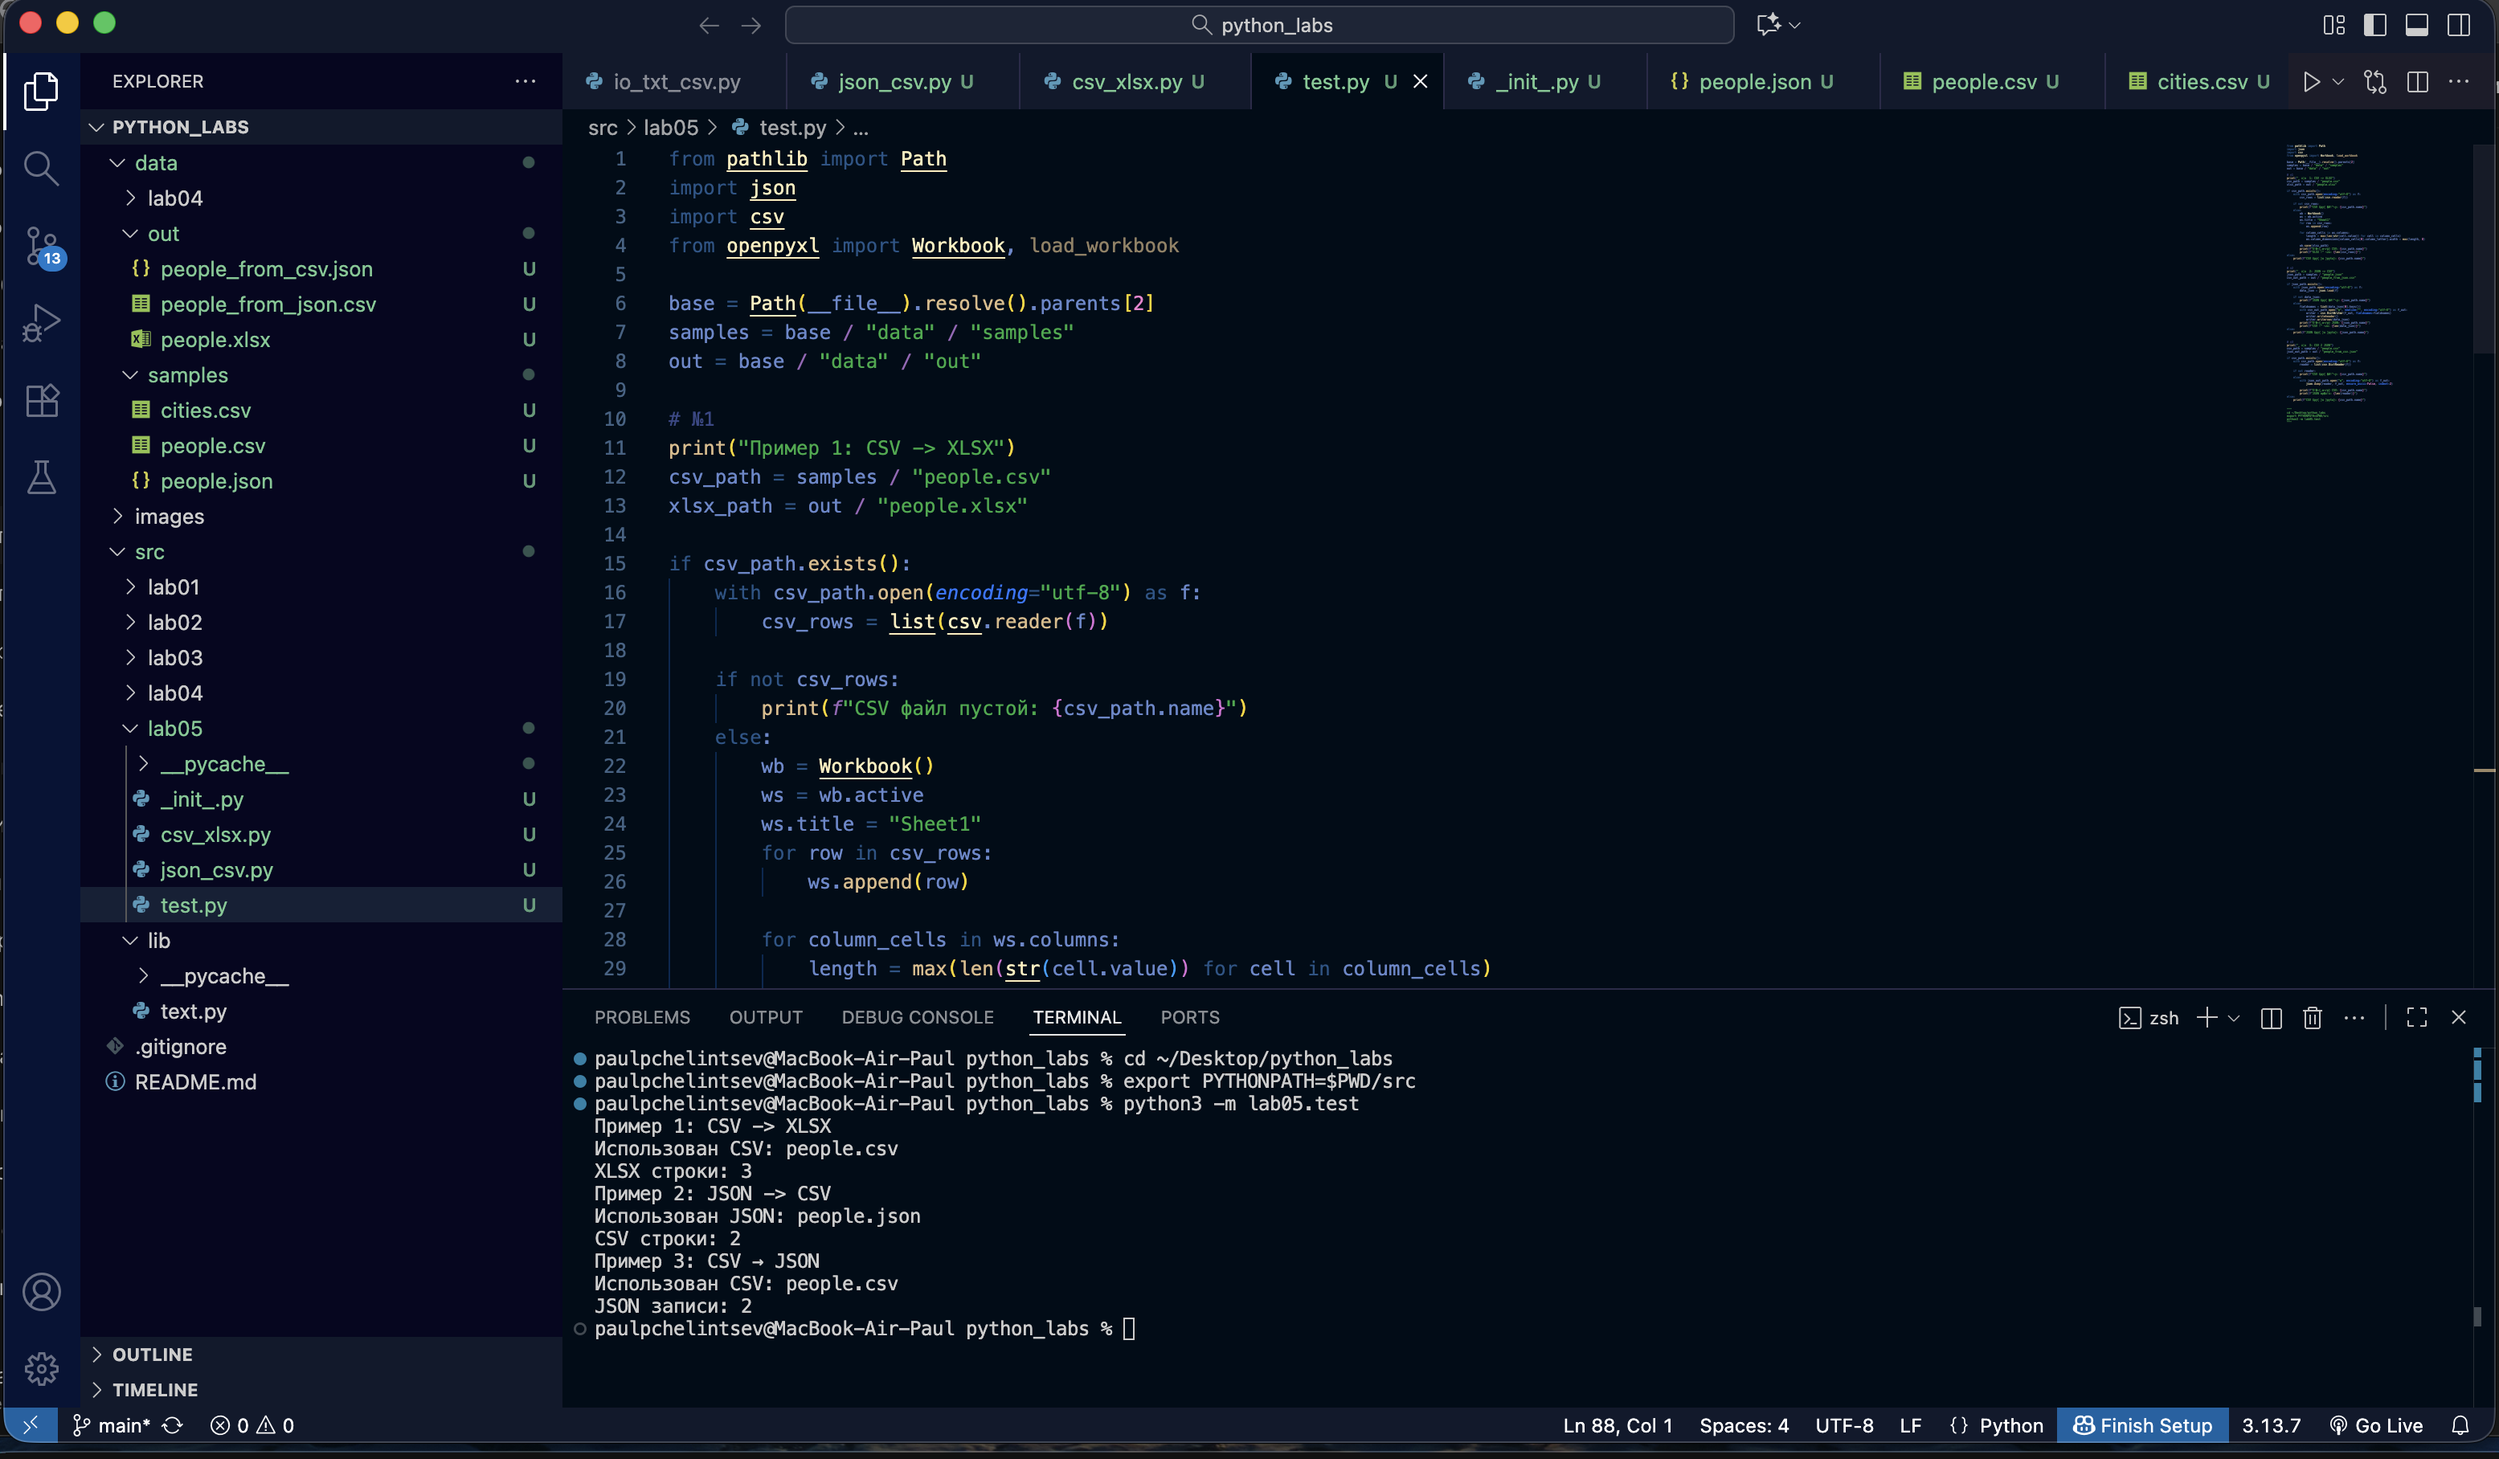
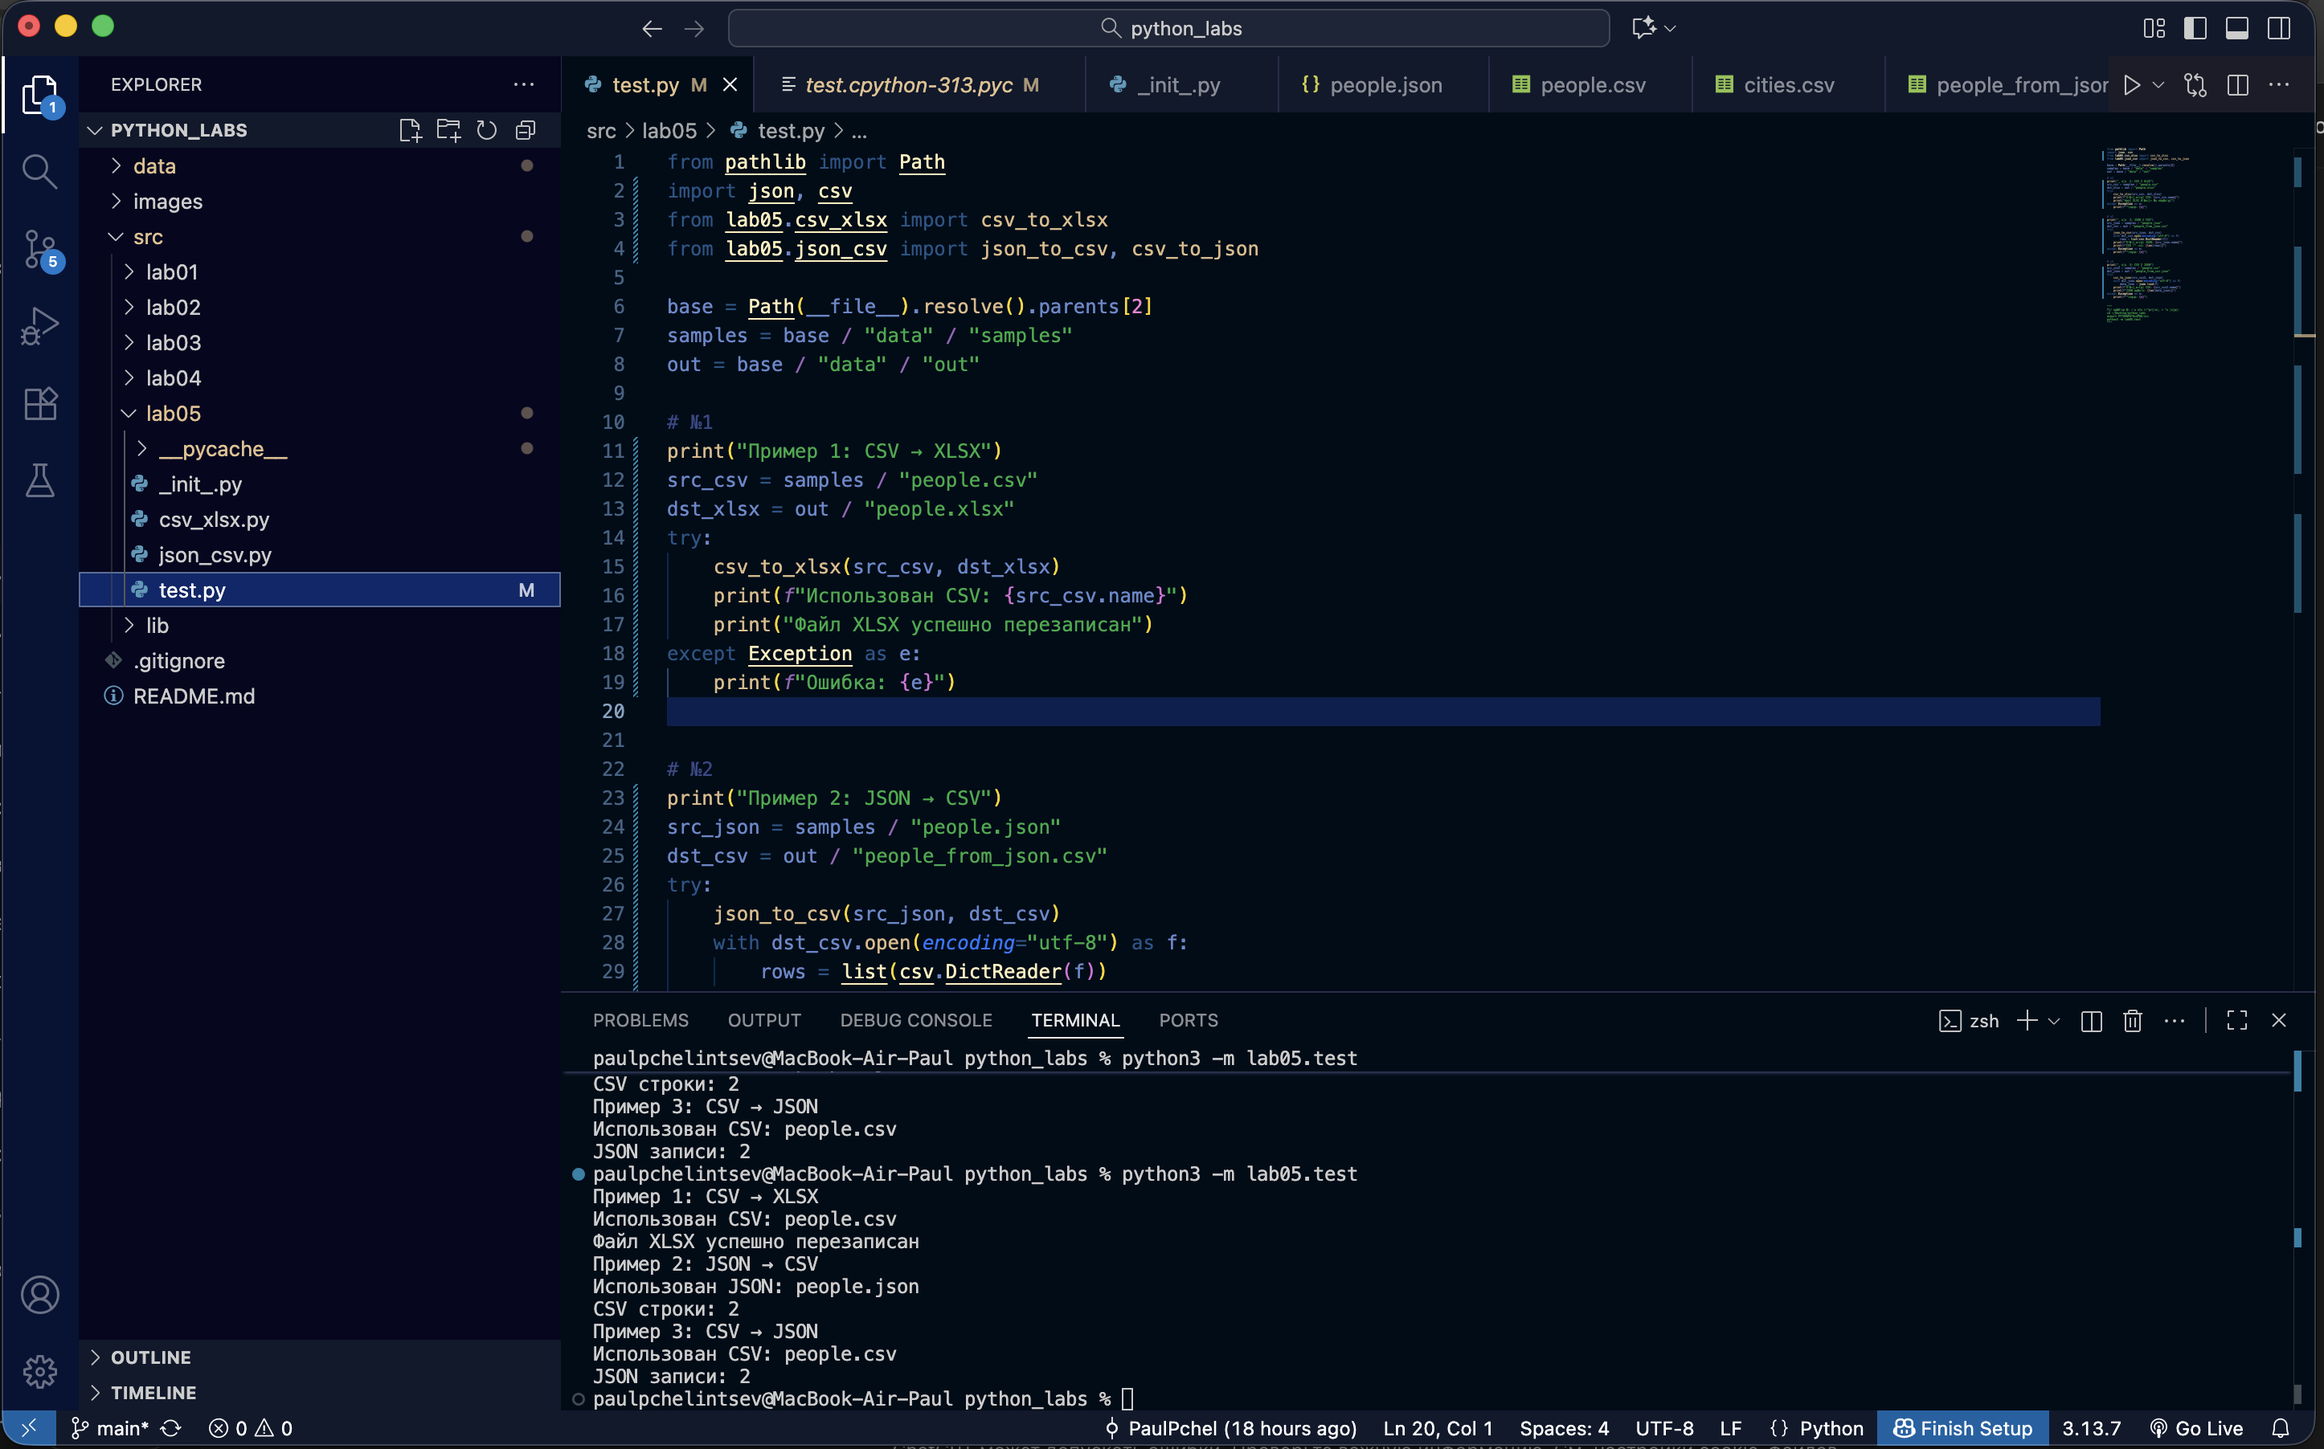
Update

Changed region(s): [[0.0, 0.0, 1.0, 1.0], [0.9025, 0.0931, 0.9647, 0.2794], [0.4979, 0.8071, 0.5602, 0.8381]]

diff --git a/src/lab05/test.py b/src/lab05/test.py
@@ -1,83 +1,50 @@
 from pathlib import Path
-import json
-import csv
-from openpyxl import Workbook, load_workbook
+import json, csv
+from lab05.csv_xlsx import csv_to_xlsx
+from lab05.json_csv import json_to_csv, csv_to_json
 
 base = Path(__file__).resolve().parents[2]
 samples = base / "data" / "samples"
 out = base / "data" / "out"
 
 # №1
-print("Пример 1: CSV -> XLSX")
-csv_path = samples / "people.csv"
-xlsx_path = out / "people.xlsx"
-
-if csv_path.exists():
-    with csv_path.open(encoding="utf-8") as f:
-        csv_rows = list(csv.reader(f))
-
-    if not csv_rows:
-        print(f"CSV файл пустой: {csv_path.name}")
-    else:
-        wb = Workbook()
-        ws = wb.active
-        ws.title = "Sheet1"
-        for row in csv_rows:
-            ws.append(row)
-
-        for column_cells in ws.columns:
-            length = max(len(str(cell.value)) for cell in column_cells)
-            ws.column_dimensions[column_cells[0].column_letter].width = max(length, 8)
-
-        wb.save(xlsx_path)
-        print(f"Использован CSV: {csv_path.name}")
-        print(f"XLSX строки: {len(csv_rows)}")
-else:
-    print(f"CSV файл не найден: {csv_path.name}")
+print("Пример 1: CSV → XLSX")
+src_csv = samples / "people.csv"
+dst_xlsx = out / "people.xlsx"
+try:
+    csv_to_xlsx(src_csv, dst_xlsx)
+    print(f"Использован CSV: {src_csv.name}")
+    print("Файл XLSX успешно перезаписан")
+except Exception as e:
+    print(f"Ошибка: {e}")
 
 
 # №2
-print("Пример 2: JSON -> CSV")
-json_path = samples / "people.json"
-csv_out_path = out / "people_from_json.csv"
-
-if json_path.exists():
-    with json_path.open(encoding="utf-8") as f:
-        data_json = json.load(f)
-
-    if not data_json:
-        print(f"JSON файл пустой: {json_path.name}")
-    else:
-        fieldnames = list(data_json[0].keys())
-        with csv_out_path.open("w", newline="", encoding="utf-8") as f_out:
-            writer = csv.DictWriter(f_out, fieldnames=fieldnames)
-            writer.writeheader()
-            writer.writerows(data_json)
-        print(f"Использован JSON: {json_path.name}")
-        print(f"CSV строки: {len(data_json)}")
-else:
-    print(f"JSON файл не найден: {json_path.name}")
+print("Пример 2: JSON → CSV")
+src_json = samples / "people.json"
+dst_csv = out / "people_from_json.csv"
+try:
+    json_to_csv(src_json, dst_csv)
+    with dst_csv.open(encoding="utf-8") as f:
+        rows = list(csv.DictReader(f))
+    print(f"Использован JSON: {src_json.name}")
+    print(f"CSV строки: {len(rows)}")
+except Exception as e:
+    print(f"Ошибка: {e}")
 
 
 # №3
 print("Пример 3: CSV → JSON")
-csv_path = samples / "people.csv"
-json_out_path = out / "people_from_csv.json"
-
-if csv_path.exists():
-    with csv_path.open(encoding="utf-8") as f:
-        reader = list(csv.DictReader(f))
-
-    if not reader:
-        print(f"CSV файл пустой: {csv_path.name}")
-    else:
-        with json_out_path.open("w", encoding="utf-8") as f_out:
-            json.dump(reader, f_out, ensure_ascii=False, indent=2)
-
-        print(f"Использован CSV: {csv_path.name}")
-        print(f"JSON записи: {len(reader)}")
-else:
-    print(f"CSV файл не найден: {csv_path.name}")
+src_csv2 = samples / "people.csv"
+dst_json = out / "people_from_csv.json"
+try:
+    csv_to_json(src_csv2, dst_json)
+    with dst_json.open(encoding="utf-8") as f:
+        data_json = json.load(f)
+    print(f"Использован CSV: {src_csv2.name}")
+    print(f"JSON записи: {len(data_json)}")
+except Exception as e:
+    print(f"Ошибка: {e}")
 
 
 """

diff --git a/README.md b/README.md
@@ -580,85 +580,52 @@ def csv_to_xlsx(csv_path: str, xlsx_path: str) -> None:
 
 ```
 from pathlib import Path
-import json
-import csv
-from openpyxl import Workbook, load_workbook
+import json, csv
+from lab05.csv_xlsx import csv_to_xlsx
+from lab05.json_csv import json_to_csv, csv_to_json
 
 base = Path(__file__).resolve().parents[2]
 samples = base / "data" / "samples"
 out = base / "data" / "out"
 
 # №1
-print("Пример 1: CSV -> XLSX")
-csv_path = samples / "people.csv"
-xlsx_path = out / "people.xlsx"
-
-if csv_path.exists():
-    with csv_path.open(encoding="utf-8") as f:
-        csv_rows = list(csv.reader(f))
-
-    if not csv_rows:
-        print(f"CSV файл пустой: {csv_path.name}")
-    else:
-        wb = Workbook()
-        ws = wb.active
-        ws.title = "Sheet1"
-        for row in csv_rows:
-            ws.append(row)
-
-        for column_cells in ws.columns:
-            length = max(len(str(cell.value)) for cell in column_cells)
-            ws.column_dimensions[column_cells[0].column_letter].width = max(length, 8)
-
-        wb.save(xlsx_path)
-        print(f"Использован CSV: {csv_path.name}")
-        print(f"XLSX строки: {len(csv_rows)}")
-else:
-    print(f"CSV файл не найден: {csv_path.name}")
+print("Пример 1: CSV → XLSX")
+src_csv = samples / "people.csv"
+dst_xlsx = out / "people.xlsx"
+try:
+    csv_to_xlsx(src_csv, dst_xlsx)
+    print(f"Использован CSV: {src_csv.name}")
+    print("Файл XLSX успешно перезаписан")
+except Exception as e:
+    print(f"Ошибка: {e}")
 
 
 # №2
-print("Пример 2: JSON -> CSV")
-json_path = samples / "people.json"
-csv_out_path = out / "people_from_json.csv"
-
-if json_path.exists():
-    with json_path.open(encoding="utf-8") as f:
-        data_json = json.load(f)
-
-    if not data_json:
-        print(f"JSON файл пустой: {json_path.name}")
-    else:
-        fieldnames = list(data_json[0].keys())
-        with csv_out_path.open("w", newline="", encoding="utf-8") as f_out:
-            writer = csv.DictWriter(f_out, fieldnames=fieldnames)
-            writer.writeheader()
-            writer.writerows(data_json)
-        print(f"Использован JSON: {json_path.name}")
-        print(f"CSV строки: {len(data_json)}")
-else:
-    print(f"JSON файл не найден: {json_path.name}")
+print("Пример 2: JSON → CSV")
+src_json = samples / "people.json"
+dst_csv = out / "people_from_json.csv"
+try:
+    json_to_csv(src_json, dst_csv)
+    with dst_csv.open(encoding="utf-8") as f:
+        rows = list(csv.DictReader(f))
+    print(f"Использован JSON: {src_json.name}")
+    print(f"CSV строки: {len(rows)}")
+except Exception as e:
+    print(f"Ошибка: {e}")
 
 
 # №3
 print("Пример 3: CSV → JSON")
-csv_path = samples / "people.csv"
-json_out_path = out / "people_from_csv.json"
-
-if csv_path.exists():
-    with csv_path.open(encoding="utf-8") as f:
-        reader = list(csv.DictReader(f))
-
-    if not reader:
-        print(f"CSV файл пустой: {csv_path.name}")
-    else:
-        with json_out_path.open("w", encoding="utf-8") as f_out:
-            json.dump(reader, f_out, ensure_ascii=False, indent=2)
-
-        print(f"Использован CSV: {csv_path.name}")
-        print(f"JSON записи: {len(reader)}")
-else:
-    print(f"CSV файл не найден: {csv_path.name}")
+src_csv2 = samples / "people.csv"
+dst_json = out / "people_from_csv.json"
+try:
+    csv_to_json(src_csv2, dst_json)
+    with dst_json.open(encoding="utf-8") as f:
+        data_json = json.load(f)
+    print(f"Использован CSV: {src_csv2.name}")
+    print(f"JSON записи: {len(data_json)}")
+except Exception as e:
+    print(f"Ошибка: {e}")
 
 
 """
